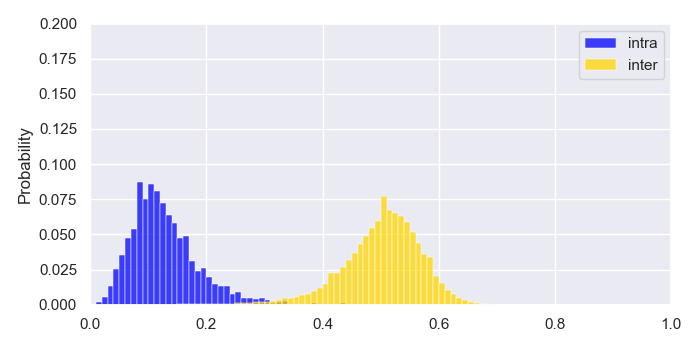
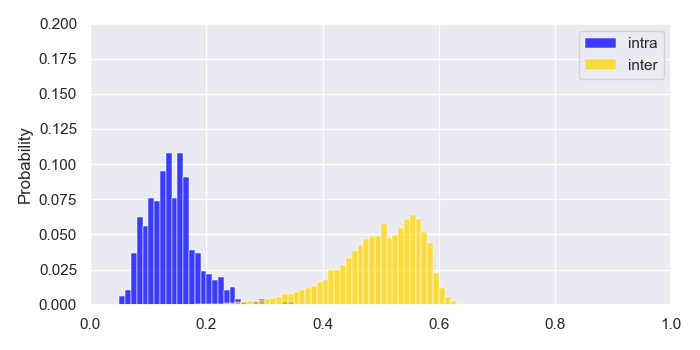
Undo magic

diff --git a/2.0/error_tolerant.py b/2.0/error_tolerant.py
@@ -4,7 +4,7 @@ from help_function import *
 from fuzzy_scheme import *
 from error_visualize import *
 
-n = 2  # number of entry
+n = 1  # number of entry
 k = 1  # number of valid
 
 
@@ -43,6 +43,47 @@ def mean_error_rate():
                     break
                 input = udata[brr[i: i + k]]
                 input = reliable_bits(input, index)
+                inter += [distance(input, entry)]
+
+    return intra, inter
+
+
+def mean_error_rate_full():
+    start = 0
+    end = 511
+
+    users = enumerate_users()
+
+    intra = []
+    inter = []
+
+    for ix, arr in users.items():
+
+        size = len(arr)
+        if n > size:
+            continue
+
+        entry = udata[arr[:n]]
+        entry = binarization(entry, start, end)
+
+        for i in range(n, size, k):
+            if i + k > size:
+                break
+            input = udata[arr[i: i + k]]
+            input = binarization(input, start, end)
+            intra += [distance(input, entry)]
+
+        for iv, brr in users.items():
+
+            size = len(brr)
+            if ix == iv:
+                continue
+
+            for i in range(0, size, k):
+                if i + k > size:
+                    break
+                input = udata[brr[i: i + k]]
+                input = binarization(input, start, end)
                 inter += [distance(input, entry)]
 
     return intra, inter
@@ -100,10 +141,13 @@ def mean_false_rate(usr_id: int, ip: int):
     return intra, inter
 
 
+name = 'Timit_39201'
+
+
 def main():
 
-    jdata = '../json/error_timit.json'
-    ifile = '../plot/plot_timit.png'
+    jdata = '../json/error_' + name + '_reliable_feature.json'
+    ifile = '../plot/plot_' + name + '_reliable_feature.png'
 
     intra, inter = mean_error_rate()
 
@@ -112,5 +156,17 @@ def main():
     visualize_The(jdata, ifile, 1.0, 0.01, 1.0, 0.2)
 
 
+def main_2():
+
+    jdata = '../json/error_' + name + '_full_feature.json'
+    ifile = '../plot/plot_' + name + '_full_feature.png'
+
+    intra, inter = mean_error_rate_full()
+
+    save_error(intra, inter, jdata)
+    visualize_The(jdata, ifile, 1.0, 0.01, 1.0, 0.2)
+
+
 main()
+main_2()
 # mean_false_rate(int(argv[1]), int(argv[2]))

diff --git a/2.0/help_function.py b/2.0/help_function.py
@@ -2,7 +2,7 @@
 import json
 import numpy as np
 
-udata = np.genfromtxt('../data/Timit', delimiter=',')
+udata = np.genfromtxt('../data/Timit_39200', delimiter=',')
 
 
 def distance(x, y):  # normalized hamming distance
@@ -58,6 +58,18 @@ def reliable_bits(arr: np.ndarray, index: list):
 
     res = ''
     mean = arr.mean(axis=0)
+
+    for val in mean[index]:
+        res += '0' if val <= 0 else '1'
+
+    return res
+
+
+def binarization(arr: np.ndarray, start, end):
+
+    res = ''
+    mean = arr.mean(axis=0)
+    index = range(start, end + 1)
 
     for val in mean[index]:
         res += '0' if val <= 0 else '1'

diff --git a/2.0/error_visualize.py b/2.0/error_visualize.py
@@ -1,4 +1,3 @@
-
 import json, numpy as np
 import matplotlib.pyplot as plt
 import matplotlib.ticker as mtk
